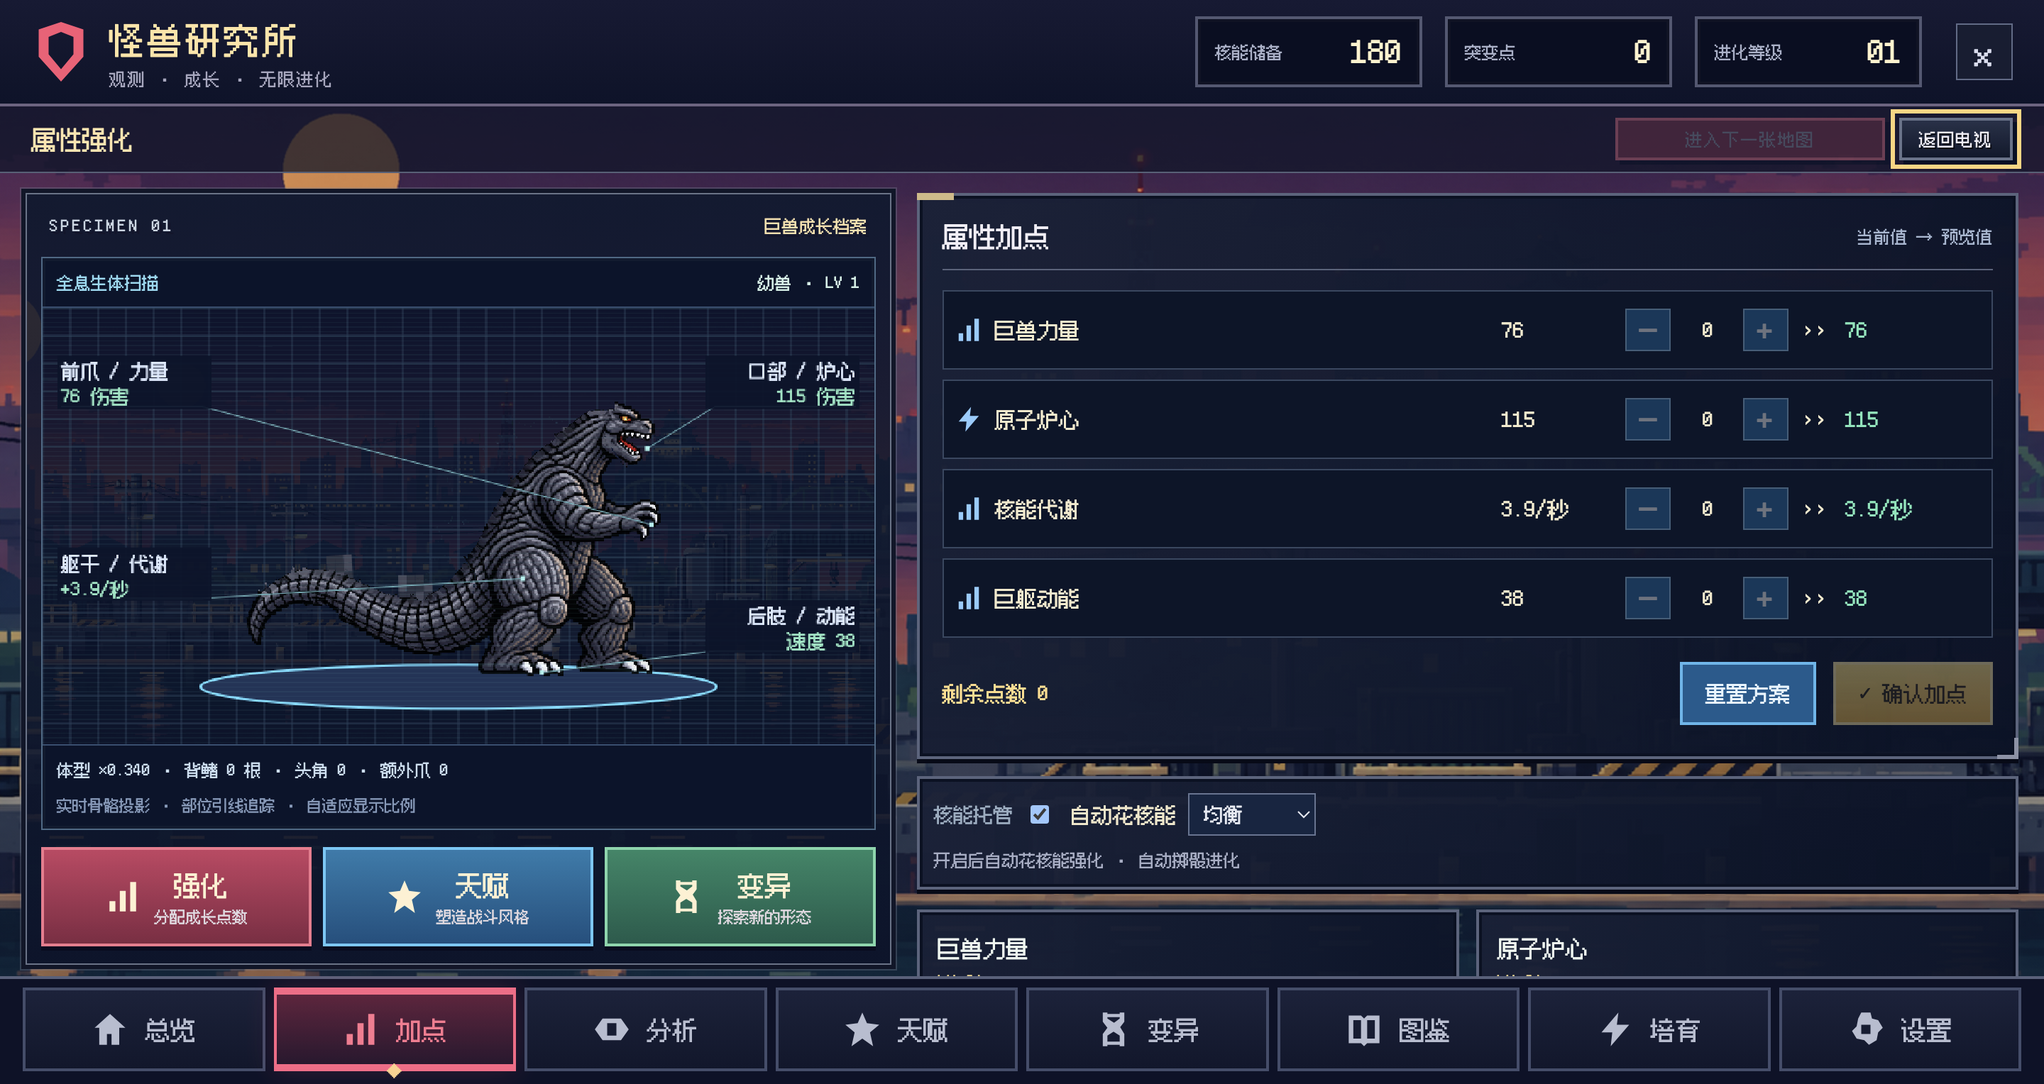
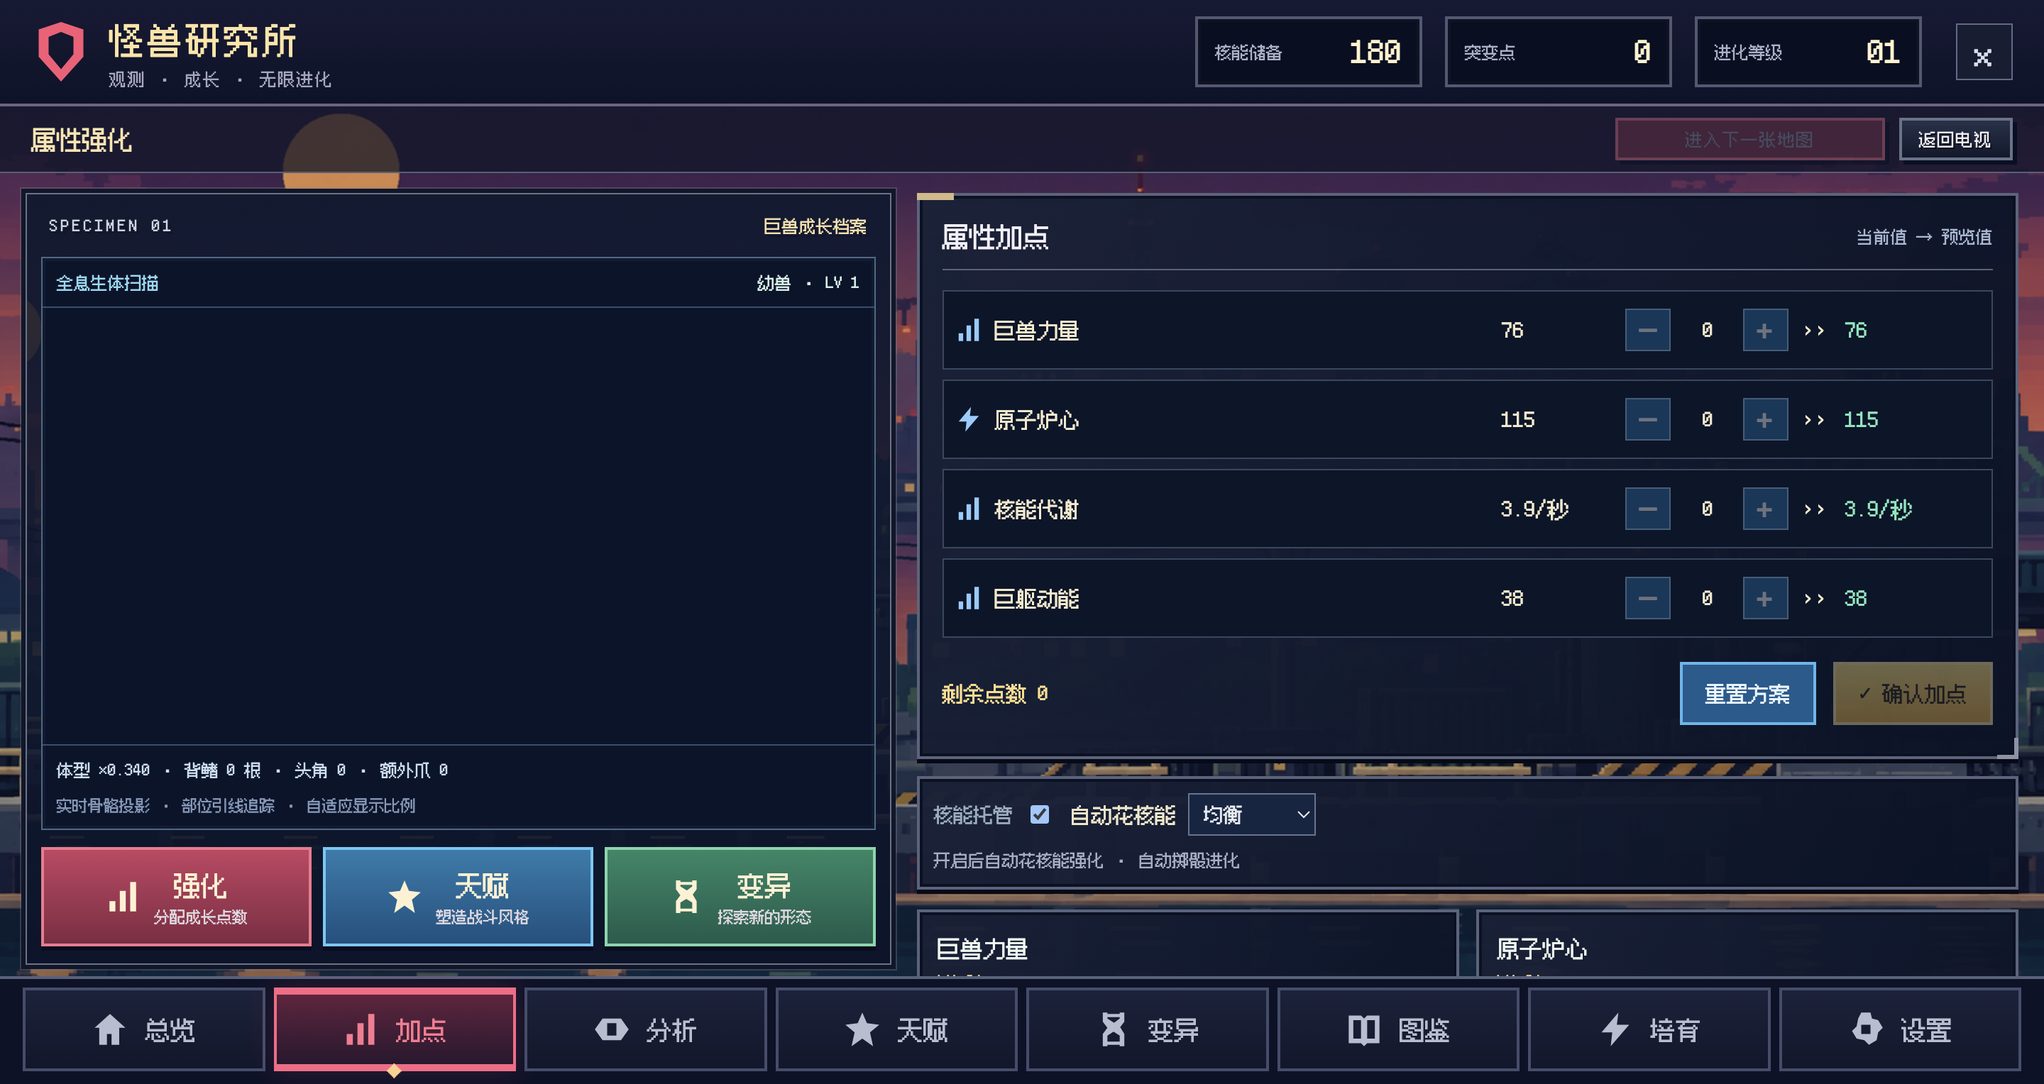
Parallax 美术重设：远景光雾上移到桥面后方 + 移除透视道路改用侧视地台；Overview 页签改为全屏扫描终端（分栏指标 + 逐字打字）

Changed region(s): [[0.0312, 0.3076, 0.4375, 0.6767], [0.125, 0.3076, 0.3438, 0.3384], [0.9375, 0.0923, 1.0, 0.1538]]

diff --git a/godzilla-pet/tv/game.js b/godzilla-pet/tv/game.js
@@ -37,7 +37,6 @@ const FX_SCALE_MAX=Growth.bodyScale(FX_LOCK_LEVEL,null,null,P.EPOCHS);
 const sentinelRenderer=new window.SentinelBoss.Renderer(Image);
 const harborArt=new Image();harborArt.src=ASSETS.LAB_ART.harbor;
 const harborLayers=Object.fromEntries(['haze','far','mid','near'].map(key=>{const img=new Image();img.src=ASSETS.LAB_ART[key];return [key,img];}));
-const roadArt=new Image();roadArt.src=ASSETS.LAB_ART.road;
 let storageOK=true,raw=null;try{raw=JSON.parse(SAVEIO.getItem(SAVE)||'null');}catch{storageOK=false;}
 const pageSearch=window.location?.search||'';
 const panelMode=window.__panelMode===true||/([?&])panel=1(?:&|$)/.test(pageSearch);
@@ -550,7 +549,7 @@ function drawVillageGround(){
   drawChapterGround();
 }
 function harborLayersReady(){return Object.values(harborLayers).every(img=>img.complete&&img.naturalWidth);}
-function drawSky(){if(harborLayersReady()){const scale=sceneZoom*zoom*.8;window.HarborParallax.draw(ctx,harborLayers,camera,W,H,H*.72-38*scale,scale);return;}if(harborArt.complete&&harborArt.naturalWidth){drawHarborSky();return;}if(currentStage().key!=='city'){drawVillageSky();return;}const pal=currentChapter().sky,g=ctx.createLinearGradient(0,0,0,G);g.addColorStop(0,pal[0]);g.addColorStop(.65,pal[1]);g.addColorStop(1,pal[2]);ctx.fillStyle=g;ctx.fillRect(0,0,W,H);drawSkyTimeMarker();
+function drawSky(){if(harborLayersReady()){window.HarborParallax.draw(ctx,harborLayers,camera,W,H,H*.72,sceneZoom*zoom*.8);return;}if(harborArt.complete&&harborArt.naturalWidth){drawHarborSky();return;}if(currentStage().key!=='city'){drawVillageSky();return;}const pal=currentChapter().sky,g=ctx.createLinearGradient(0,0,0,G);g.addColorStop(0,pal[0]);g.addColorStop(.65,pal[1]);g.addColorStop(1,pal[2]);ctx.fillStyle=g;ctx.fillRect(0,0,W,H);drawSkyTimeMarker();
 for(let i=0;i<12;i++){let x=((i*179-time*4-camera*.08)%1500+1500)%1500-200,y=85+(i%4)*31;rect(x,y,180+i%3*40,14,'#102047');rect(x+30,y-12,100,18,'#102047');}
 for(let layer=0;layer<3;layer++){let factor=[.13,.26,.43][layer];for(let b of skyline[layer]){let x=b.x-camera*factor;if(x<-150||x>1400)continue;let bottom=G-50+layer*14,h=b.h*(.75+layer*.12);rect(x,bottom-h,b.w,h,currentChapter().skyline[layer]);rect(x+3,bottom-h+3,3,h-3,'#284371');rect(x+b.w/2,bottom-h-9,3,9,'#203c63');if(Math.sin(time*3+b.seed)>0)rect(x+b.w/2,bottom-h-12,4,4,'#fc4b80');for(let yy=bottom-h+13;yy<bottom-8;yy+=17){for(let xx=8;xx<b.w-8;xx+=14){let hash=((b.seed+Math.floor(yy)*17+xx*13)%29);if(hash>7)rect(x+xx,yy,6,7,hash>20?'#ffc65e':layer===0?'#37559c':'#648cc4');}}}}
 drawChapterLandmarks();
@@ -563,29 +562,21 @@ function drawHarborSky(){
   if(data.district>1){ctx.fillStyle='#142244';ctx.globalAlpha=Math.min(.22,(data.district-1)*.012);ctx.fillRect(0,0,W,G);ctx.globalAlpha=1;}
 }
 function drawHarborGround(){
-  // All three building baselines (G-14, G, G+32) sit on this shared street.
-  // The old water strip began at G, leaving the foreground buildings over water.
-  rect(-W,G-38,W*3,H-G+38,'#17233b');
-  const tileWidth=640,firstTile=Math.floor(camera/tileWidth)-2;
-  if(roadArt.complete&&roadArt.naturalWidth){
-    const iw=roadArt.naturalWidth,ih=roadArt.naturalHeight,split=Math.round(ih*.45);
-    for(let index=firstTile;index*tileWidth-camera<W*2;index++){
-      const x=index*tileWidth-camera,flipped=Math.abs(index%2)===1;
-      ctx.save();ctx.translate(x+(flipped?tileWidth:0),0);ctx.scale(flipped?-1:1,1);
-      ctx.drawImage(roadArt,0,0,iw,split,0,G-38,tileWidth,96);
-      ctx.drawImage(roadArt,0,split,iw,ih-split,0,G+58,tileWidth,65);
-      ctx.restore();
-    }
-  }else{
-    rect(-W,G-38,W*3,96,'#30394b');
-    for(let x=firstTile*tileWidth-camera;x<W*2;x+=80)rect(x,G+22,40,3,'#d8b574');
-    rect(-W,G+58,W*3,7,'#92979c');rect(-W,G+65,W*3,58,'#28394d');
+  // Orthographic side view: the walk plane starts at the actor's sole, y=G.
+  rect(-W,G,W*3,H-G,'#17263b');
+  rect(-W,G,W*3,4,'#637582');
+}
+function drawHarborFrontGround(){
+  // Draw after actors so the straight edge hides their soles without a visible road surface.
+  rect(-W,G-2,W*3,4,'#a5abb0');
+  rect(-W,G+2,W*3,9,'#35475b');
+  rect(-W,G+11,W*3,H-G,'#17263b');
+  for(let x=-(camera%160)-160;x<W+160;x+=160){
+    rect(x,G+15,155,2,'#2b4054');
+    rect(x+3,G+18,3,48,'#0d1a2b');
+    rect(x+9,G+32,36,4,'#42566a');
+    rect(x+92,G+54,55,3,'#263b50');
   }
-  // Continuous curb and small contact pads make the ground plane unambiguous.
-  rect(-W,G-38,W*3,3,'#8a8391');rect(-W,G+55,W*3,3,'#c9b284');
-  for(const b of buildings){if(b.x-camera<-250||b.x-camera>W+250)continue;rect(b.x-camera-5,b.ground+4,b.w+10,6,'#111a2ec4');}
-  rect(p.x-camera-60*BS,G-2,175*BS,7,'#090e22a8');
-  rect(-W,G+123,W*3,H-G-123,'#0a2238');
 }
 function drawGround(){if(harborArt.complete&&harborArt.naturalWidth){drawHarborGround();return;}if(currentStage().key!=='city'){drawVillageGround();return;}rect(0,G,W,H-G,'#061534');rect(0,G,W,7,'#67728a');rect(0,G+7,W,8,'#263c55');for(let x=-(camera%110);x<W;x+=110){rect(x,G+15,105,23,'#172942');rect(x+5,G+19,4,17,'#2f4057');rect(x+70,G+18,25,15,'#0b1a31');}rect(0,G+40,W,2,'#3f85b8');rect(0,G+43,W,H-G,'#052155');for(let i=0;i<175;i++){let x=((i*73-camera*.75+Math.sin(time*(i%3+1)+i)*16)%1320+1320)%1320,y=G+48+i%28*3;rect(x,y,10+i%6*8,2+i%2*2,['#123c81','#145fc5','#1454a6','#287ce3','#09409e'][i%5]);}
 for(let i=0;i<10;i++){let wx=((i*191-camera*.7)%1400+1400)%1400;for(let k=0;k<13;k++){let x=wx+Math.sin(time*2+k*.8+i)*13;rect(x-k*1.5,G+47+k*6,10+(k%4)*8,2,i%3===0?'#d25ea090':i%3===1?'#e6af5790':'#28b3ec90');}}
@@ -892,7 +883,7 @@ function drawSceneSwitch(g){
   g.fillText('正在接收下一区域信号',W/2,H/2+24);
   g.restore();
 }
-function render(){ctx.setTransform(.5,0,0,.5,0,0);ctx.clearRect(0,0,W,H);drawSky();ctx.save();let center=p.x-camera,s=sceneZoom*zoom*.8;ctx.translate(center,H*.72);ctx.scale(s,s);ctx.translate(-center,-G);if(shake>0)ctx.translate(Math.sin(time*90)*shake,Math.cos(time*73)*shake*.45);if(!harborLayersReady())drawSky();drawGround();if(harborLayersReady())drawPatrolHeli();drawBuildings(0);drawBuildings(1);drawWrecks();for(let e of enemies)if(alive(e))drawEnemy(e);drawGodzilla(SK,BS);drawSentinelBeam(sentinel());drawBeam();for(let b of bullets){let t=b.trail.map(v=>[v[0]-camera,v[1]]);if(t.length>1)line(t,b.type==='electric'?'#84dfff':'#ffa155',3);rect(b.x-camera-5,b.y-3,10,6,b.type==='electric'?'#bfffff':'#fff0a2');}for(let e of enemies)if(!alive(e))drawEnemy(e);for(let f of fires)if(Math.abs(f.x-camera-W/2)<W){const fireScale=fxScale(f.jitter);fire(f.x-camera,f.y,f.size*3.2*fireScale*Math.min(1,(24-f.age)/8));}drawParticles();drawBuildings(2);drawForeground();drawWeather();ctx.restore();drawCampaignRoute();const shade=ctx.createLinearGradient(0,0,0,H);shade.addColorStop(0,'#01091b65');shade.addColorStop(.2,'#010a1900');shade.addColorStop(.75,'#010a1900');shade.addColorStop(1,'#02091b88');ctx.fillStyle=shade;ctx.fillRect(0,0,W,H);drawBossHealth();drawBossCutin();out.drawImage(buffer,0,0,W,H);
+function render(){ctx.setTransform(.5,0,0,.5,0,0);ctx.clearRect(0,0,W,H);drawSky();ctx.save();let center=p.x-camera,s=sceneZoom*zoom*.8;ctx.translate(center,H*.72);ctx.scale(s,s);ctx.translate(-center,-G);if(shake>0)ctx.translate(Math.sin(time*90)*shake,Math.cos(time*73)*shake*.45);if(!harborLayersReady())drawSky();drawGround();if(harborLayersReady())drawPatrolHeli();drawBuildings(0);drawBuildings(1);drawWrecks();for(let e of enemies)if(alive(e))drawEnemy(e);drawGodzilla(SK,BS);drawSentinelBeam(sentinel());drawBeam();for(let b of bullets){let t=b.trail.map(v=>[v[0]-camera,v[1]]);if(t.length>1)line(t,b.type==='electric'?'#84dfff':'#ffa155',3);rect(b.x-camera-5,b.y-3,10,6,b.type==='electric'?'#bfffff':'#fff0a2');}for(let e of enemies)if(!alive(e))drawEnemy(e);for(let f of fires)if(Math.abs(f.x-camera-W/2)<W){const fireScale=fxScale(f.jitter);fire(f.x-camera,f.y,f.size*3.2*fireScale*Math.min(1,(24-f.age)/8));}drawParticles();drawBuildings(2);if(harborLayersReady())drawHarborFrontGround();drawForeground();drawWeather();ctx.restore();drawCampaignRoute();const shade=ctx.createLinearGradient(0,0,0,H);shade.addColorStop(0,'#01091b65');shade.addColorStop(.2,'#010a1900');shade.addColorStop(.75,'#010a1900');shade.addColorStop(1,'#02091b88');ctx.fillStyle=shade;ctx.fillRect(0,0,W,H);drawBossHealth();drawBossCutin();out.drawImage(buffer,0,0,W,H);
 /* 换场雪花盖在最上面 —— 它必须压住推图条 / 暗角 / 频道画面，否则"遮满屏幕"
  * 这句话只在部分图层上成立。哪个画布在显示就画在哪个上（转台与直播两态都覆盖）。 */
 if(channel!=='live'){drawChannel();if(bossCutinActive())channelCtx.drawImage(canvas,0,0,W,H);}drawSceneSwitch(out);if(channel!=='live')drawSceneSwitch(channelCtx);}
@@ -979,6 +970,9 @@ function syncAssignHologram(){
 }
 function drawAssignHologram(c,rig,t){
   const g=c.getContext('2d'),w=c.width,h=c.height;
+  const terminal=$('management').dataset.page==='overview';
+  const cycle=t?(t-Number(c.dataset.scanStart||0))%12:12;
+  const typed=(str,index)=>str.slice(0,t?Math.max(0,Math.floor((cycle-index*.28)*25)):str.length);
   g.setTransform(1,0,0,1,0,0);g.clearRect(0,0,w,h);g.imageSmoothingEnabled=false;
   g.fillStyle='#0b142b';g.fillRect(0,0,w,h);
   if(harborArt.complete&&harborArt.naturalWidth){g.drawImage(harborArt,0,0,w,h);g.fillStyle='#0b142bdc';g.fillRect(0,0,w,h);}
@@ -987,7 +981,7 @@ function drawAssignHologram(c,rig,t){
   for(let y=0;y<h;y+=24){g.beginPath();g.moveTo(0,y);g.lineTo(w,y);g.stroke();}
   const bs=Growth.bodyScale(data.level,data.talents,data.morph,P.EPOCHS),bounds=KaijuRig.BIND_BOUNDS;
   // Fit the actual current shape; physical scale remains explicit in the readout.
-  const fit=Math.min(w*.64/((bounds.x1-bounds.x0)*bs),h*.66/((bounds.y1-bounds.y0)*bs));
+  const fit=Math.min(w*(terminal?.48:.64)/((bounds.x1-bounds.x0)*bs),h*.66/((bounds.y1-bounds.y0)*bs));
   const ax=w/2-(bounds.x0+bounds.x1)*bs*fit/2,ay=h*.85;
   const pose=KaijuRig.pose({x:0,ground:0,moving:false,step:0,action:{name:t?'walk':'neutral',t:0}},t);
   const sk=scaleRig(pose,bs,0,0);
@@ -1008,14 +1002,29 @@ function drawAssignHologram(c,rig,t){
     {q:sk.muzzle,x:w-16,y:h*.16,name:'口部 / 炉心',value:Math.round(economy.atomic())+' 伤害',side:-1},
     {q:sk.foot,x:w-16,y:h*.72,name:'后肢 / 动能',value:'速度 '+Math.round(economy.speed()),side:-1}
   ];
-  g.font='17px Pixel, monospace';
-  labels.forEach(a=>{
+  if(terminal){
+    labels[0].y=h*.19;labels[1].y=h*.43;labels[2].y=h*.19;labels[3].y=h*.43;
+    labels.push(
+      {q:sk.bones.torso,x:16,y:h*.67,name:'GROWTH / 成长经验',value:Math.floor(data.xp)+' / '+economy.nextXP(),side:1},
+      {q:sk.bones.tail_tip,x:16,y:h*.85,name:'GENOME / 基因档案',value:data.mutations.length+' 项变异记录',side:1},
+      {q:sk.bones.head,x:w-16,y:h*.67,name:'SECTOR / 区域记录',value:'区域 '+data.district+' · '+Math.floor(data.meters)+' m',side:-1},
+      {q:sk.bones.torso,x:w-16,y:h*.85,name:'COMBAT / 战斗记录',value:data.kills+' 击破 / '+data.cleared+' 破坏',side:-1}
+    );
+  }
+  g.font=(terminal?'14':'17')+'px Pixel, monospace';
+  labels.forEach((a,i)=>{ 
     const x=ax+a.q.x*fit,y=ay+a.q.y*fit,edge=a.x+a.side*122;
-    g.strokeStyle='#68acb6';g.beginPath();g.moveTo(x,y);g.lineTo(edge,a.y+25);g.lineTo(a.x,a.y+25);g.stroke();
-    g.fillStyle='#a7f1ee';g.fillRect(x-2,y-2,4,4);
-    g.fillStyle='#0b142bee';g.fillRect(a.side===1?a.x-3:a.x-130,a.y-19,133,46);
-    g.textAlign=a.side===1?'left':'right';g.fillStyle='#dceaff';g.fillText(a.name,a.x,a.y);g.fillStyle='#8fe7c4';g.fillText(a.value,a.x,a.y+22);
+    if(i<4){g.strokeStyle='#68acb6';g.beginPath();g.moveTo(x,y);g.lineTo(edge,a.y+25);g.lineTo(a.x,a.y+25);g.stroke();
+    g.fillStyle='#a7f1ee';g.fillRect(x-2,y-2,4,4);}
+    const box=terminal?174:133;g.font=(terminal?(i<4?'14':'12'):'17')+'px Pixel, monospace';
+    g.fillStyle='#0b142bee';g.fillRect(a.side===1?a.x-3:a.x-box+3,a.y-19,box,46);
+    g.textAlign=a.side===1?'left':'right';g.fillStyle='#dceaff';g.fillText(terminal?typed(a.name,i*2):a.name,a.x,a.y);g.fillStyle='#8fe7c4';g.fillText(terminal?typed(a.value,i*2+1):a.value,a.x,a.y+22);
   });
+  if(terminal){
+    g.textAlign='left';g.font='11px Pixel, monospace';g.fillStyle='#72afbb';
+    g.fillText(typed('BIO-SCAN // LIVE LINK · 生体数据持续同步',0),16,h-12);
+    g.textAlign='right';g.fillText(cycle<5?'READING_':'SCAN COMPLETE · 待命',w-16,h-12);
+  }
   g.textAlign='center';g.fillStyle='#b9dfdc';g.font='12px Pixel, monospace';
   if(!rig.ready)g.fillText(rig.failures.length?'部件加载失败 · 请检查资源':'正在装配真实骨骼…',w/2,115);
   c.dataset.level=String(data.level);c.dataset.bodyScale=bs.toFixed(3);c.dataset.spines=String(decor.spikes.count);c.dataset.rigReady=String(rig.ready);

diff --git a/godzilla-pet/tv/parallax.js b/godzilla-pet/tv/parallax.js
@@ -1,7 +1,7 @@
 /* Four reusable transparent city strips; no growing scene-object list. */
 (function(root,factory){const api=factory();if(typeof module==='object'&&module.exports)module.exports=api;else root.HarborParallax=api;})(typeof window!=='undefined'?window:globalThis,function(){
  'use strict';
- const layers=[{key:'haze',speed:.10,height:736,offset:340},{key:'far',speed:.18,height:555,offset:220},{key:'mid',speed:.42,height:365},{key:'near',speed:.72,height:265}];
+ const layers=[{key:'haze',speed:.10,height:770,offset:340},{key:'far',speed:.18,height:555,offset:220},{key:'mid',speed:.42,height:365},{key:'near',speed:.72,height:265}];
  function tiles(camera,speed,width,viewport){
   const offset=((camera*speed)%(width*2)+width*2)%(width*2),first=Math.floor(offset/width),result=[];
   for(let i=first,x=i*width-offset;x<viewport;i++,x+=width)result.push({x,flip:i%2===1});
@@ -19,9 +19,14 @@
    for(const tile of tiles(camera+(layer.offset||0)/layer.speed,layer.speed,width,w)){ctx.save();ctx.translate(tile.x+(tile.flip?width:0),baseline-height);ctx.scale(tile.flip?-1:1,1);ctx.drawImage(img,0,0,width,height+2);ctx.restore();}
    if(layer.key==='far'){
     // Haze sits in front of the towers, behind the bridge and warehouses.
-    const top=Math.max(0,baseline-240),glow=ctx.createLinearGradient(0,top,0,baseline);
-    glow.addColorStop(0,'#b7d4ff00');glow.addColorStop(.55,'#a8c8fa18');glow.addColorStop(1,'#b6dbff70');
-    ctx.fillStyle=glow;ctx.fillRect(0,top,w,baseline-top);
+    // Put the bright part above the bridge deck; light at the baseline is hidden by it.
+    const top=Math.max(0,baseline-370),bottom=baseline-95;
+    const glow=ctx.createLinearGradient(0,top,0,bottom);
+    glow.addColorStop(0,'#d9c1e400');
+    glow.addColorStop(.35,'#efd1dc30');
+    glow.addColorStop(.68,'#d8e1ec96');
+    glow.addColorStop(1,'#d7e8efc0');
+    ctx.fillStyle=glow;ctx.fillRect(0,top,w,bottom-top);
    }
   }
   ctx.restore();

diff --git a/godzilla-pet/tv/lab.css b/godzilla-pet/tv/lab.css
@@ -150,3 +150,15 @@ html:not(.panel-view) .headline h1{font-size:20px!important}
 .panel-view .talent-node.locked .talent-icon.has-art{filter:grayscale(1) brightness(.5)}
 .panel-view .talent-detail-head .talent-icon.has-art{width:81px;height:54px;padding:0;image-rendering:pixelated;flex:none;background-color:#0a172c}
 .panel-view .lab-card:after{content:'';position:absolute;right:-2px;bottom:-2px;width:12px;height:12px;border-right:3px solid #8c92a7;border-bottom:3px solid #8c92a7;pointer-events:none}
+/* Overview is one full-width scanning terminal, with the live specimen at its centre. */
+.panel-view .lab-management[data-page=overview] .lab-body{display:block;height:100%;padding-top:10px}
+.panel-view .lab-management[data-page=overview] .lab-work,
+.panel-view .lab-management[data-page=overview] .hero-actions,
+.panel-view .lab-management[data-page=overview] .hero-label,
+.panel-view .lab-management[data-page=overview] .holo-readout,
+.panel-view .lab-management[data-page=overview] .monitor-caption{display:none}
+.panel-view .lab-management[data-page=overview] .lab-hero{position:relative;top:0;height:calc(100vh - 210px);min-height:390px;background:#091426;border:1px solid #50758a;padding:4px}
+.panel-view .lab-management[data-page=overview] .monster-monitor{margin:0;border:1px solid #35546c}
+.panel-view .lab-management[data-page=overview] .monster-monitor figcaption{padding:14px 18px;font-size:20px;background:#0a172a;color:#8ddff0;letter-spacing:2px}
+.panel-view .lab-management[data-page=overview] .monster-monitor figcaption strong{font-size:17px;color:#c2e9d9}
+@media(max-width:680px){.panel-view .lab-management[data-page=overview] .lab-hero{height:calc(100vh - 190px);min-height:470px}.panel-view .lab-management[data-page=overview] .monster-monitor figcaption{font-size:15px;letter-spacing:0}}

diff --git a/godzilla-pet/tv/assets/asset-index.js b/godzilla-pet/tv/assets/asset-index.js
@@ -20,7 +20,7 @@
   const ENEMY_DIR = 'enemies';
   const BUILDING_DIR = 'buildings';
   const TV_SKINS = {neon:{controls:'assets/skins/neon/right-controls.png'}};
-  const LAB_ART = {harbor:'assets/lab/harbor.png',road:'assets/lab/harbor-road.png',haze:'assets/lab/harbor-haze.png',far:'assets/lab/harbor-far.png',mid:'assets/lab/harbor-mid.png',near:'assets/lab/harbor-near.png',platform:'assets/lab/kaiju-platform.png',mutation:'assets/lab/mutation-chamber.png',talent_icons:'assets/lab/talent-icons.png'};
+  const LAB_ART = {harbor:'assets/lab/harbor.png',haze:'assets/lab/harbor-haze.png',far:'assets/lab/harbor-far.png',mid:'assets/lab/harbor-mid.png',near:'assets/lab/harbor-near.png',platform:'assets/lab/kaiju-platform.png',mutation:'assets/lab/mutation-chamber.png',talent_icons:'assets/lab/talent-icons.png'};
 
   /** 骨骼槽：与 rig.js 的 12 个变换节点一一对应。
    *  这些名字同时就是 parts/ 下的目录名，改名等于改骨骼契约，

diff --git a/godzilla-pet/tv/lab.js b/godzilla-pet/tv/lab.js
@@ -46,6 +46,7 @@ const snapshot=()=>JSON.parse(window.__growth.snapshot());
 const stats=e=>({power:Math.round(e.power()),atomic:Math.round(e.atomic()),metabolism:e.passive().toFixed(1)+'/秒',stride:Math.round(e.speed())});
 const send=(id)=>{if(window.__panelHost)window.__panelHost.command({id});else if(window.opener?.__growth)window.opener.__growth.command({id});};
 function show(key,fromGame=false){
+ if(key==='overview'&&page!==key)$('assignHologram').dataset.scanStart=String(performance.now()/1000);
  page=key;management.dataset.page=key;overview.hidden=key!=='overview';extra.hidden=!['analysis','codex','nurture'].includes(key);
  for(const id of ['assign','talent','evo','settings','news','stats'])$(id+'Panel').hidden=id!==key;
  document.querySelectorAll('.lab-nav button').forEach(b=>{b.setAttribute('aria-current',b.dataset.page===key?'page':'false');});

diff --git a/godzilla-pet/tv/ART-DIRECTION.md b/godzilla-pet/tv/ART-DIRECTION.md
@@ -106,6 +106,10 @@
 ### 桥后渐变光（2026-09-27）
 浅紫灰高楼层高度由 620 提到 680 逻辑像素，进一步压近。深色高楼绘制完后、铁路桥中景绘制前，叠加 240 像素高的淡蓝色向上消散渐变光雾；道路、战斗单位及近景都不会被这层光雾涂亮。独立原生电视截图确认层级与桥梁遮挡，五处镜头位置的天空透明比例约 4.9%–6.9%。
 
+复核发现，旧光雾的最高亮度落在背景基线，实际被桥梁和中景建筑大面积遮住；可见区域的不透明度也过低。现将光带上移到桥面后方的楼群间隙，增强浅灰蓝中心亮度，保留桥梁前景遮挡；浅紫灰高楼层放大到 770 逻辑像素。原生电视画面见 `doc/lab-redesign/parallax-television.png`。
+
+正交侧视地面：移除有透视感的 `harbor-road.png` 道路绘制。背景四层的下沿延伸到怪兽脚底线，避免旧道路移走后露出天空色空带；脚底线以下改为平直的侧面地台，最后绘制前沿遮住脚底 2 像素。地台装饰只沿水平方向循环，不出现可见的路面纵深。
+
 ### 可选电视皮肤（2026-09-27）
 新增 `tv-skins.css` / `tv-skins.js`，提供原研究所终端与参考图霓虹特摄机壳。霓虹款包含深蓝凹槽边框、粉色灯条、四枚侧键、双旋钮及音箱格栅。设置 → 电视外观可即时切换；偏好独立于游戏存档，由宿主窗口状态保存，两个窗口通过受信 IPC 同步。浏览器版本以独立 localStorage 键保存。隔离原生验证脚本 `build/skin-showcase.cjs` 覆盖跨窗切换、非法值拒绝、加载恢复、旋钮功能与边界。
 
